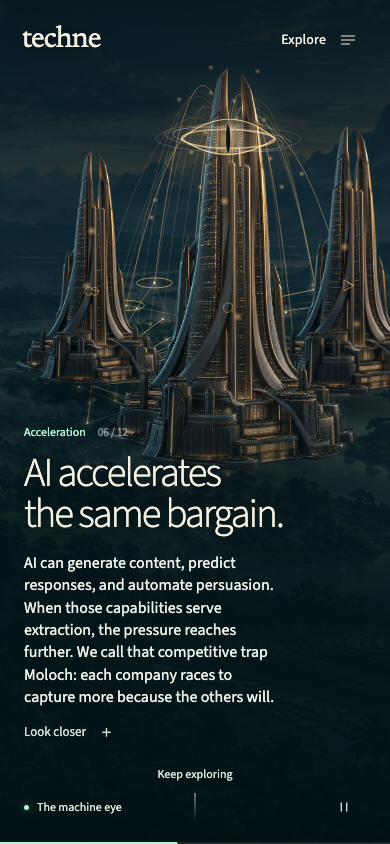
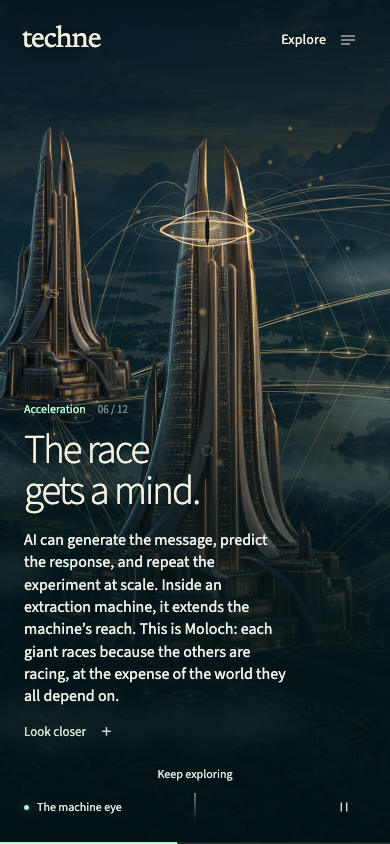
Ground animations in landscape landmarks and restore vivid story language

Changed region(s): [[0.0, 0.0616, 1.0, 0.8318]]

diff --git a/src/lib/chapters.ts b/src/lib/chapters.ts
@@ -66,8 +66,8 @@ export const BEATS: Chapter[] = [
     "id": "packets",
     "act": "Origins",
     "chapter": "Networks of networks",
-    "title": "A network anyone\ncould build on.",
-    "body": "Shared protocols connected independent networks. The Web let anyone publish a page and link to someone else’s. People could build useful things without asking a platform for permission.",
+    "title": "A link was\nan open door.",
+    "body": "Separate networks learned a shared language. Then came the Web: people published, discovered, and built on each other’s work. A university, a laboratory, a person at home could reach one another without asking a platform for permission.",
     "scene": 0.35,
     "action": "Send a packet",
     "mechanism": "Independent networks · shared rules",
@@ -81,8 +81,8 @@ export const BEATS: Chapter[] = [
     "id": "sharing",
     "act": "Enclosure",
     "chapter": "The sharing promise",
-    "title": "We brought\nthe value.",
-    "body": "Hosts brought the rooms. Drivers brought the cars. We brought our friendships. Airbnb, Uber, and Facebook made those networks easier to use—then controlled the gates through which we reached one another.",
+    "title": "The value was\nalready between us.",
+    "body": "A spare room. A seat in a car. Our friendships. Airbnb, Uber, and Facebook made these networks easier to use. The connections were between us; control over reaching one another belonged to the platform.",
     "scene": 1.1,
     "action": "",
     "mechanism": "People supply the assets. Relationships create the value.",
@@ -96,8 +96,8 @@ export const BEATS: Chapter[] = [
     "id": "growth",
     "act": "Enclosure",
     "chapter": "Enshittification",
-    "title": "Then the terms\nchanged.",
-    "body": "Investors expected returns. Once leaving became costly, platforms could raise fees, sell access, and give us less. That is enshittification: extracting more from the people who make the network valuable.",
+    "title": "Our network.\nSomeone else’s return.",
+    "body": "Attract people. Make leaving hard. Then give them less and charge them more. This is enshittification: a valuable network becomes a machine for extracting returns from the people who sustain it.",
     "scene": 1.8,
     "action": "",
     "mechanism": "Investment → enclosure → recurring extraction",
@@ -112,8 +112,8 @@ export const BEATS: Chapter[] = [
     "id": "extraction",
     "act": "The human cost",
     "chapter": "The attention market",
-    "title": "The cost goes\nbeyond the fee.",
-    "body": "Ad-funded feeds compete for our attention. Their rankings shape what we notice, how businesses reach customers, and which voices get heard. Decisions made to increase engagement spill into our lives and our politics.",
+    "title": "Our attention.\nTheir empire.",
+    "body": "A pause. A click. One more minute. Feeds learn what holds us, then sell our attention. Their rankings shape livelihoods and public debate. Democracy needs shared attention. Who controls it?",
     "scene": 2.4,
     "action": "Trace an exchange",
     "mechanism": "Watch → predict → rank → sell",
@@ -127,8 +127,8 @@ export const BEATS: Chapter[] = [
     "id": "acceleration",
     "act": "Acceleration",
     "chapter": "The machine eye",
-    "title": "AI accelerates\nthe same bargain.",
-    "body": "AI can generate content, predict responses, and automate persuasion. When those capabilities serve extraction, the pressure reaches further. We call that competitive trap Moloch: each company races to capture more because the others will.",
+    "title": "The race\ngets a mind.",
+    "body": "AI can generate the message, predict the response, and repeat the experiment at scale. Inside an extraction machine, it extends the machine’s reach. This is Moloch: each giant races because the others are racing, at the expense of the world they all depend on.",
     "scene": 3.25,
     "action": "",
     "mechanism": "Generate → predict → adapt → repeat",
@@ -141,8 +141,8 @@ export const BEATS: Chapter[] = [
     "id": "reconnect",
     "act": "A living web",
     "chapter": "Direct relationships",
-    "title": "Own the tools\nyou depend on.",
-    "body": "A cooperative can run the services its members need: a calendar, a tool library, a local exchange. Members decide the rules and where the surplus goes. Their relationships become the reason to maintain the service.",
+    "title": "The rules\ncan be remade.",
+    "body": "The value still lives between us. People can own the tools they use to meet, trade, and care for one another. Members set the rules and decide where the surplus goes. Connect those places, and small communities can stand against the giants.",
     "scene": 4.3,
     "action": "Send a spark",
     "mechanism": "Give · receive · share onward",
@@ -153,8 +153,8 @@ export const BEATS: Chapter[] = [
     "id": "sdk",
     "act": "A living web",
     "chapter": "The Techne layer",
-    "title": "Local apps,\nshared reach.",
-    "body": "The Techne SDK is our proposed distribution layer for community-owned apps. It extends AT Protocol’s shared foundation so compatible tools can exchange information and reach connected communities. Each community can build without starting its network from zero.",
+    "title": "Local apps.\nA shared way through.",
+    "body": "The Techne SDK is our proposed distribution layer for community-owned apps. Building on AT Protocol, it helps local tools speak a common language and reach connected communities. Each app can join a network larger than itself.",
     "scene": 5.05,
     "action": "",
     "mechanism": "AT Protocol → shared app language → community distribution",
@@ -169,7 +169,7 @@ export const BEATS: Chapter[] = [
     "act": "A living web",
     "chapter": "Make it your own",
     "title": "Remix the app.\nKeep the connection.",
-    "body": "AI-assisted “vibe coding” lets a community adapt an app to local needs. Techne’s shared building blocks would help those variations remain compatible. A different interface need not become another closed network.",
+    "body": "With AI-assisted “vibe coding,” a community can adapt a calendar, exchange, or tool library to its own needs. Keep the shared language intact, and local differences can flourish while the apps still talk to each other.",
     "scene": 5.45,
     "action": "Remix a local app",
     "mechanism": "Different local tools · compatible shared records",
@@ -182,8 +182,8 @@ export const BEATS: Chapter[] = [
     "id": "federation",
     "act": "A living web",
     "chapter": "Many small centers",
-    "title": "Communities grow\nstronger together.",
-    "body": "A neighborhood cooperative connects with others across its watershed. People share services and knowledge while keeping local ownership. As this federation becomes useful, leaving a giant no longer has to mean leaving everyone behind.",
+    "title": "Small together\nbecomes powerful.",
+    "body": "Cooperatives connect across neighborhoods and watersheds. Local ownership. Shared reach. Together, useful alternatives let people leave the giants without leaving one another.",
     "scene": 5.9,
     "action": "Connect the communities",
     "mechanism": "Local ownership · shared reach · network effects that accumulate",
@@ -194,8 +194,8 @@ export const BEATS: Chapter[] = [
     "id": "living",
     "act": "A living web",
     "chapter": "Life beyond the screen",
-    "title": "Value stays\nclose to home.",
-    "body": "A borrowed tool. Work for a neighbor. Food from a nearby farm. The apps support exchanges that sustain local livelihoods and ecosystems. The network grows through reciprocity, with each place connected to a wider whole.",
+    "title": "A web in service\nof life.",
+    "body": "Tools shared. Gardens tended. Neighbors finding each other. Local value circulates through workshops, food cooperatives, and ecovillages. These living networks nest and connect: a web that grows by nourishing the places within it.",
     "scene": 6.4,
     "action": "Follow the exchange",
     "mechanism": "From connection to community to place",
@@ -206,8 +206,8 @@ export const BEATS: Chapter[] = [
     "id": "future",
     "act": "A living web",
     "chapter": "Fund the work",
-    "title": "Help build\nthe living web.",
-    "body": "Funding Techne would support the SDK, compatible app patterns, and community pilots. Help us test a practical alternative: technology that communities can own, adapt, and connect.",
+    "title": "The future is\nsomething we make.",
+    "body": "Techne is the craft of shaping tools—and choosing what they serve. Funding would support the SDK, compatible app patterns, and community pilots. Help communities build, own, and connect the technology of a living web.",
     "scene": 7,
     "action": "",
     "mechanism": "",

diff --git a/src/scripts/immersive.ts b/src/scripts/immersive.ts
@@ -39,11 +39,12 @@ function load(name: string) {
   });
 }
 function project(p: {x:number;y:number}): Point {
-  return isMobile()?camera.point(.49+p.x*.20,.34+p.y*.26):camera.point(.30+p.x*.66,.53+p.y*.40);
+  const i=PEOPLE.indexOf(p as typeof PEOPLE[number]), hub=HUBS[Math.max(0,i)%HUBS.length];
+  return camera.point(hub.x+(p.x-.5)*.09,hub.y+(p.y-.5)*.052);
 }
 function towers(state: ReturnType<typeof filmState>) {
-  const defs=isMobile()?[[.51,.50,.28],[.67,.51,.32],[.595,.60,.48]]:[[.59,.74,.43],[.86,.79,.48],[.745,.89,.73]];
-  const size=Math.min(1,height*(isMobile()?.50:.78)/(camera.h*(isMobile()?.48:.73)*1.08));
+  const defs=[[.485,.525,.31],[.902,.585,.39],[.582,.818,.58]];
+  const size=Math.min(1,...defs.map(([x,y,h])=>Math.max(.05,camera.point(x,y).y-height*.12)/(camera.h*h*1.08)));
   return defs.map(([x,y,h],i)=>({...camera.point(x,y),h:camera.h*h*size*mix(.69,1.08,state.growth)*state.rise,i}));
 }
 function backdrop(img: HTMLImageElement) {ctx.drawImage(img,camera.x,camera.y,camera.w,camera.h);}
@@ -190,8 +191,8 @@ function drawFederation(n:number,now:number) {
   const start=chapterIndex('sdk')-.9,strength=smooth(start-.4,start+1.1,n);
   if(strength<=0)return;
   const mature=smooth(chapterIndex('sdk'),chapterIndex('federation')+.5,n);
-  const map=(p:Point):Point=>isMobile()?camera.point(.50+p.x*.19,.25+p.y*.30):camera.point(.40+p.x*.58,.48+p.y*.45);
-  const hubs=HUBS.map(map),r=(isMobile()?19:34),demoId=demo?BEATS[demo.chapter].id:'';
+  const map=(p:Point):Point=>camera.point(p.x,p.y);
+  const hubs=HUBS.map(map),r=camera.w*.014,demoId=demo?BEATS[demo.chapter].id:'';
   const demoProgress=demo&&(demoId==='remix'||demoId==='federation')?(quiet?1:clamp((now-demo.start)/3400)):0;
   const line=(a:Point,b:Point,alpha:number,weight=1)=>{
     ctx.beginPath();ctx.moveTo(a.x,a.y);ctx.bezierCurveTo(mix(a.x,b.x,.38),a.y-Math.abs(a.x-b.x)*.13,mix(a.x,b.x,.7),b.y-Math.abs(a.x-b.x)*.1,b.x,b.y);ctx.strokeStyle=color(mint,alpha*strength);ctx.lineWidth=weight;ctx.stroke();
@@ -199,11 +200,11 @@ function drawFederation(n:number,now:number) {
   ctx.save();ctx.globalCompositeOperation='screen';
   // Every hub connects to several peers; no central distribution tower.
   FEDERATION_LINKS.forEach(([a,b],i)=>{
-    const alpha=(.20+mature*.28);line(hubs[a],hubs[b],alpha,isMobile()?.85:1.3);
+    const alpha=(.20+mature*.28);line(hubs[a],hubs[b],alpha,1.4);
     if(!quiet||demoProgress){for(let side=0;side<2;side++){
       let u=quiet?demoProgress:(phase*.075+i*.137+side*.48)%1;if(side)u=1-u;
       const p={x:mix(hubs[a].x,hubs[b].x,u),y:mix(hubs[a].y,hubs[b].y,u)-Math.sin(u*Math.PI)*Math.abs(hubs[a].x-hubs[b].x)*.10};
-      glow(p.x,p.y,isMobile()?5:8,side?gold:mint,strength*.65);
+      glow(p.x,p.y,isMobile()?9:13,side?gold:mint,strength*.95);
     }}
   });
   // Branches divide by the golden ratio. They grow into local exchange loops.
@@ -221,15 +222,22 @@ function drawFederation(n:number,now:number) {
     }
   });
   hubs.forEach((p,i)=>{
-    const size=r*(.83+(i%3)*.10),bloom=smooth(start-.3+i*.12,start+1.3+i*.1,n);
+    const size=r*(.6+HUBS[i].y*.8),bloom=smooth(start-.3+i*.12,start+1.3+i*.1,n);
     // Translucent nested petals echo greenhouses and living seed heads.
     for(let j=0;j<5;j++){
-      const angle=j*2.3999632297+i*.4,rr=size/PHI**(j*.38)*(quiet?1:1+Math.sin(phase*.5+i+j*.8)*.015);
+      const angle=j*2.3999632297+i*.4,rr=size/PHI**(j*.38)*(quiet?1:1+Math.sin(phase*.5+i+j*.8)*.07);
       ctx.save();ctx.translate(p.x,p.y);ctx.rotate(angle);ctx.scale(1,.55);
       ctx.beginPath();ctx.ellipse(rr*.26,0,rr,rr/PHI,0,0,Math.PI*2);
       ctx.fillStyle=color(mint,.028*bloom*strength);ctx.fill();ctx.strokeStyle=color(j%2?gold:mint,(.37-j*.035)*bloom*strength);ctx.lineWidth=.85;ctx.stroke();ctx.restore();
     }
     glow(p.x,p.y,size*.8,mint,.30*strength);ctx.beginPath();ctx.arc(p.x,p.y,3,0,Math.PI*2);ctx.fillStyle=color([244,240,223],strength);ctx.fill();
+    // A visible ground-plane pulse originates at each actual settlement.
+    if(!quiet){
+      const u=(phase*.27+i*.19)%1;
+      ctx.beginPath();ctx.ellipse(p.x,p.y,size*(.8+u*2.6),size*(.25+u*.8),0,0,Math.PI*2);
+      ctx.strokeStyle=color(mint,(1-u)*.8*bloom*strength);ctx.lineWidth=1.6;ctx.stroke();
+      glow(p.x,p.y,size*(.65+Math.sin(phase*1.8+i)*.15),mint,.48*strength);
+    }
     // App leaves retain a shared base but acquire distinct local forms.
     const apps=smooth(chapterIndex('sdk')-.5,chapterIndex('remix'),n);
     if(apps>0){for(let k=0;k<3;k++){
@@ -251,17 +259,17 @@ function drawFederation(n:number,now:number) {
 const mistTexture=document.createElement('canvas');mistTexture.width=512;mistTexture.height=128;
 const mistContext=mistTexture.getContext('2d')!;
 for(let i=0;i<22;i++){
-  const x=30+i*21,y=64+Math.sin(i*1.8)*17,r=25+Math.sin(i*.7)*9;
-  const g=mistContext.createRadialGradient(x,y,0,x,y,r);g.addColorStop(0,'rgba(201,225,215,.22)');g.addColorStop(1,'rgba(201,225,215,0)');mistContext.fillStyle=g;mistContext.fillRect(x-r,y-r,r*2,r*2);
+  const x=30+i*21,y=64+Math.sin(i*1.8)*17,r=43+Math.sin(i*.7)*7;
+  const g=mistContext.createRadialGradient(x,y,0,x,y,r);g.addColorStop(0,'rgba(220,238,227,.38)');g.addColorStop(1,'rgba(201,225,215,0)');mistContext.fillStyle=g;mistContext.fillRect(x-r,y-r,r*2,r*2);
 }
 function drawMist(t:number,foreground=false){
-  const layer=foreground?1:0;
   ctx.save();
-  for(let i=0;i<5;i++){
-    const drift=quiet?0:Math.sin(phase*.022+i*1.7)*.045;
-    const p=camera.point(.12+i*.20+drift,.30+layer*.35+(i%3)*.075);
-    const w=camera.w*(.25+i*.025),h=w*(foreground?.09:.13);
-    ctx.globalAlpha=(foreground?.11:.20)*(1-filmState(t).darkness*.35);
+  const banks=foreground?[[.34,.70],[.76,.51],[.50,.86]]:[[.32,.40],[.75,.36],[.58,.59]];
+  for(let i=0;i<banks.length;i++){
+    const drift=quiet?0:Math.sin(phase*.12+i*1.7)*.055;
+    const p=camera.point(banks[i][0]+drift,banks[i][1]+Math.sin(phase*.18+i)*.006);
+    const w=camera.w*(.29+i*.025),h=w*(foreground?.17:.15);
+    ctx.globalAlpha=(foreground?.62:.52)*(1-filmState(t).darkness*.15);
     ctx.drawImage(mistTexture,p.x-w/2,p.y-h/2,w,h);
   }
   ctx.restore();
@@ -270,9 +278,9 @@ function drawRiverLight(t:number){
   const calm=1-filmState(t).darkness*.75;
   ctx.save();ctx.globalCompositeOperation='screen';
   for(let i=0;i<16;i++){
-    const y=.50+i*.014,x=.68-Math.sin(i*.25)*.035;
+    const y=.51+i*.011,x=.64+Math.sin(i*.25)*.045;
     const p=camera.point(x,y),wave=quiet?.5:(Math.sin(phase*.55+i*1.7)+1)/2;
-    ctx.strokeStyle=color(gold,calm*(.035+wave*.055));ctx.lineWidth=.6;
+    ctx.strokeStyle=color(gold,calm*(.09+wave*.13));ctx.lineWidth=.6;
     ctx.beginPath();ctx.moveTo(p.x-camera.w*.006*(1+wave),p.y);ctx.lineTo(p.x+camera.w*.006*(1+wave),p.y);ctx.stroke();
   }ctx.restore();
 }

diff --git a/src/lib/federation.ts b/src/lib/federation.ts
@@ -1,14 +1,14 @@
 /** A stable botanical geometry: local branches scale by phi, hubs stay peers. */
 export const PHI = (1 + Math.sqrt(5)) / 2;
 export const HUBS = [
-  {x:.17,y:.38}, {x:.43,y:.68}, {x:.68,y:.30}, {x:.85,y:.69}, {x:.48,y:.08},
+  {x:.487,y:.525}, {x:.582,y:.818}, {x:.665,y:.448}, {x:.902,y:.585}, {x:.908,y:.369},
 ];
 export const FEDERATION_LINKS = [[0,1],[1,2],[2,3],[3,1],[0,4],[4,2],[4,3]];
 export const BRANCHES = HUBS.flatMap((hub,h)=>Array.from({length:3},(_,j)=>{
   const angle=j*Math.PI*2/3+h*2.3999632297;
-  const branch={x:hub.x+Math.cos(angle)*.11,y:hub.y+Math.sin(angle)*.16};
+  const branch={x:hub.x+Math.cos(angle)*.037,y:hub.y+Math.sin(angle)*.023};
   return {hub:h,branch,leaves:Array.from({length:5},(_,k)=>{
-    const a=angle+(k-2)*.57,r=.105/PHI**(1+k*.22);
-    return {x:branch.x+Math.cos(a)*r,y:branch.y+Math.sin(a)*r*1.4};
+    const a=angle+(k-2)*.57,r=.034/PHI**(1+k*.22);
+    return {x:branch.x+Math.cos(a)*r,y:branch.y+Math.sin(a)*r*.60};
   })};
 }));

diff --git a/docs/IMMERSIVE-EXPERIENCE.md b/docs/IMMERSIVE-EXPERIENCE.md
@@ -2,7 +2,7 @@
 
 ## Editorial direction
 
-Twelve chapters replace the previous twenty-three. Preserve the approved opening and its contrast gradient. Each subsequent passage advances the argument: open networks, participant-created value, enshittification, attention and public life, AI acceleration, cooperative ownership, the Techne SDK, local remixing, federation, local exchange, and funding.
+Twelve chapters replace the previous twenty-three, with the strongest earlier language restored: “A link was an open door,” “The value was already between us,” “Our network. Someone else’s return,” and “A web in service of life.” Preserve the approved opening and its contrast gradient. Each subsequent passage advances the argument: open networks, participant-created value, enshittification, attention and public life, AI acceleration, cooperative ownership, the Techne SDK, local remixing, federation, local exchange, and funding.
 
 Use concrete subjects and connected sentences. Avoid repeating the same claim as another chapter or adding ornamental slogans. Supporting history, qualifications and sources belong in Look closer and the Markdown download. Keep the distinction between the proposed Techne architecture and released capabilities. Do not invent adoption, partners, funding targets or investment returns.
 
@@ -10,7 +10,7 @@ Use concrete subjects and connected sentences. Avoid repeating the same claim as
 
 The landscape fills the viewport. There is one persistent canvas, with native page scrolling and overlaid HTML narration. No wheel interception, illustration panels or card layout. `src/lib/camera.ts` defines the single cover transform for the 1672×941 artwork, including crop, focal position and scroll-driven camera motion.
 
-Towers, people, federation branches, mist and river lights use normalized artwork coordinates through that same camera. The background and overlays must never independently scale with viewport percentages. Portrait screens have deliberately authored artwork anchors; within each composition the anchors stay fixed to the artwork. Tower sizes share one scale constraint, preserving their relative hierarchy while keeping the primary crown in view on ultrawide screens.
+Towers, people, federation branches, mist and river lights use normalized artwork coordinates through that same camera. The background and overlays must never independently scale with viewport percentages. All screen sizes use the same authored landmarks. The five hubs sit at (0.487, 0.525), (0.582, 0.818), (0.665, 0.448), (0.902, 0.585), and (0.908, 0.369): the central dome, foreground greenhouse, distant settlement, right terrace and upper plateau. Portrait viewports crop this world; they must never lift those anchors into the sky. Tower sizes share one scale constraint, preserving their relative hierarchy while keeping the primary crown in view on ultrawide screens.
 
 Desktop copy sits at left 7.4%, top 25%, max width 740px. The opening remains centered. Phones use 24px side margins and a lower foreground text overlay. The environment remains visible behind it. Compact landscape viewports place chapter notes beside exchange controls. At 400% reflow, use natural reading flow.
 
@@ -24,7 +24,7 @@ Twelve narrative positions map continuously to the existing world clock 0–7. S
 
 Early relay stations and linked pages fade into walls and captured routes. Value moves into growing towers. The machine eye and reaching filaments intensify before direct routes return. Five community hubs grow fifteen branches and seventy-five leaves scaled by phi, joined by seven peer links. These are social metaphors, not a literal AT Protocol server diagram.
 
-Ambient layers: a reusable procedural mist texture drifts in separate valley and foreground layers; restrained gold reflections move on the river; motes and reciprocal network pulses continue while the reader pauses. Community petal forms breathe by only 1.5%. Motion must be calm enough for reading. All ambient motion stops in quiet mode, reduced motion, hidden tabs or open dialogs. No video or new raster payload is required.
+Ambient layers: a reusable procedural mist texture drifts in separate valley and foreground layers; restrained gold reflections move on the river; motes and reciprocal network pulses continue while the reader pauses. Community petal forms breathe by 7%, with a visible expanding ground-plane ring every 3.7 seconds. Motion must be calm enough for reading. All ambient motion stops in quiet mode, reduced motion, hidden tabs or open dialogs. No video or new raster payload is required.
 
 ## Interactions and access
 

diff --git a/qa/immersive/REPORT.md b/qa/immersive/REPORT.md
@@ -1,15 +1,15 @@
-# Techne polish release — 2026-10-06
+# Techne landmark and atmosphere revision — 2026-10-06
 
-The approved opening and contrast gradient are preserved. Twelve chapters replace twenty-three, retaining platform enclosure, enshittification, AI acceleration, the proposed Techne SDK, local remixing, cooperative federation and the funding invitation. Repeated arguments move into the supporting notes.
+The approved opening and contrast gradient are preserved. Twelve chapters replace twenty-three, retaining platform enclosure, enshittification, AI acceleration, the proposed Techne SDK, local remixing, cooperative federation and the funding invitation. The strongest earlier language is restored inside these twelve chapters, including the open-door metaphor, participant-created value, enshittification, the race gaining a mind, and a web in service of life.
 
 - Production build passed; 14 narrative, geometry and timeline tests passed.
 - 59 browser checks passed, 0 failed.
 - Every chapter checked at 320×740, 390×844, 820×1180, 844×390, 1440×900, 1920×1080, 2560×1440 and 3440×1440.
 - Six exchanges, ten chapter notes and their sources, keyboard focus, reading modes, reduced motion, no-JavaScript content, reflow, deep links, reverse navigation and Markdown download passed.
-- Scroll frame interval: 19.1ms p95 in local Chromium; no samples above 50ms. Separate ultrawide ambient test: 28ms p95, visible movement, identical quiet-mode frames.
-- Compressed production upper bound: 991471 bytes, including 14214 bytes of JavaScript; no new raster payload.
+- Scroll frame interval: 19.5ms p95 in local Chromium; no samples above 50ms. Separate ultrawide ambient test: 27ms p95, visible movement, identical quiet-mode frames.
+- Compressed production upper bound: 991563 bytes, including 14296 bytes of JavaScript; no new raster payload.
 
-Scenery and primary animation anchors now share one artwork-space camera. Tower scaling preserves the central tower's hierarchy on ultrawide displays. Drifting mist, river glints and softly breathing community branches add continuous motion. Canvas painting is capped at two million pixels; native HTML text remains sharp. Large headings cap at 96px after QA caught wrapping at 1920×1080.
+The prior release still used separate mobile anchors, lifting the federation into the sky. This revision removes those coordinates. Five authored landmarks align with the artwork’s central dome, foreground greenhouse, distant settlement, right terrace and upper plateau. Phones crop the same world. Corporate foundations and early pavilions use those land locations too. Tower height is bounded by available headroom. Mist now has a broader continuous texture, substantially stronger opacity and faster drift. Community hubs emit visible ground-plane pulses, petals breathe by 7%, and reciprocal lights are brighter. Canvas painting remains capped at two million pixels.
 
 Visual review covered ultrawide tower hierarchy, mobile commons, the opening and the integrated atmosphere. The proposed SDK remains a proof of concept; no adoption or funding outcomes are asserted. Fundraising opens an email conversation.
 
